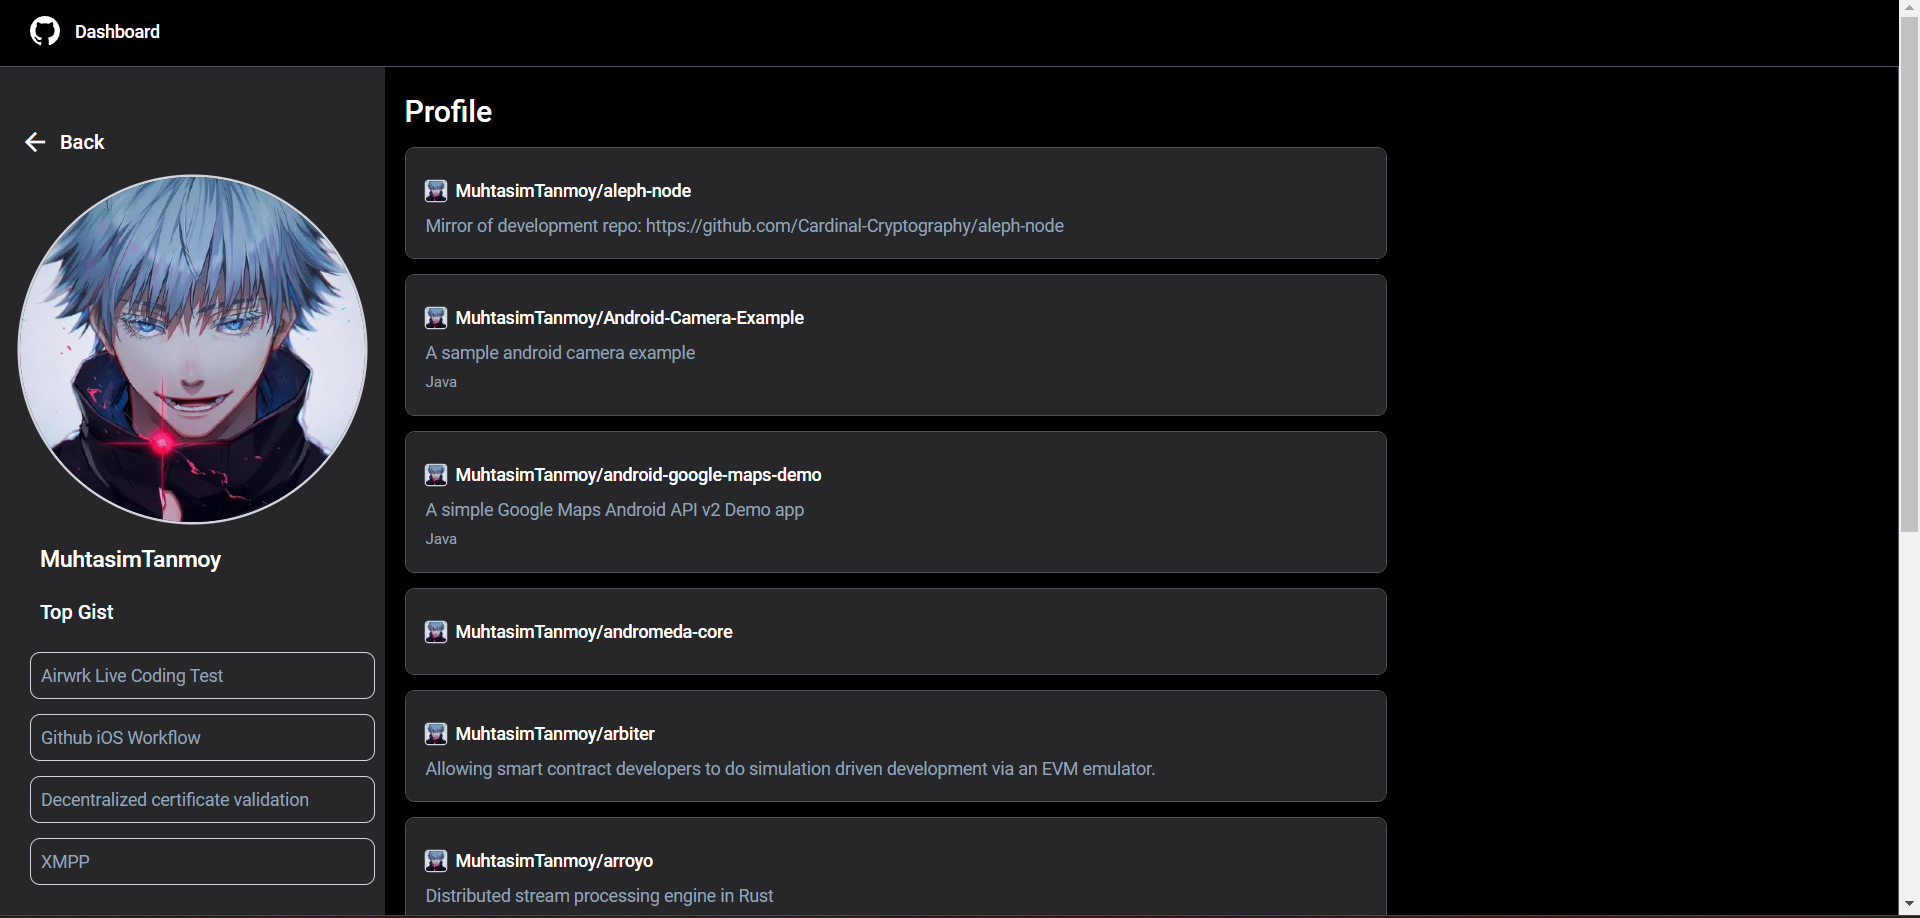
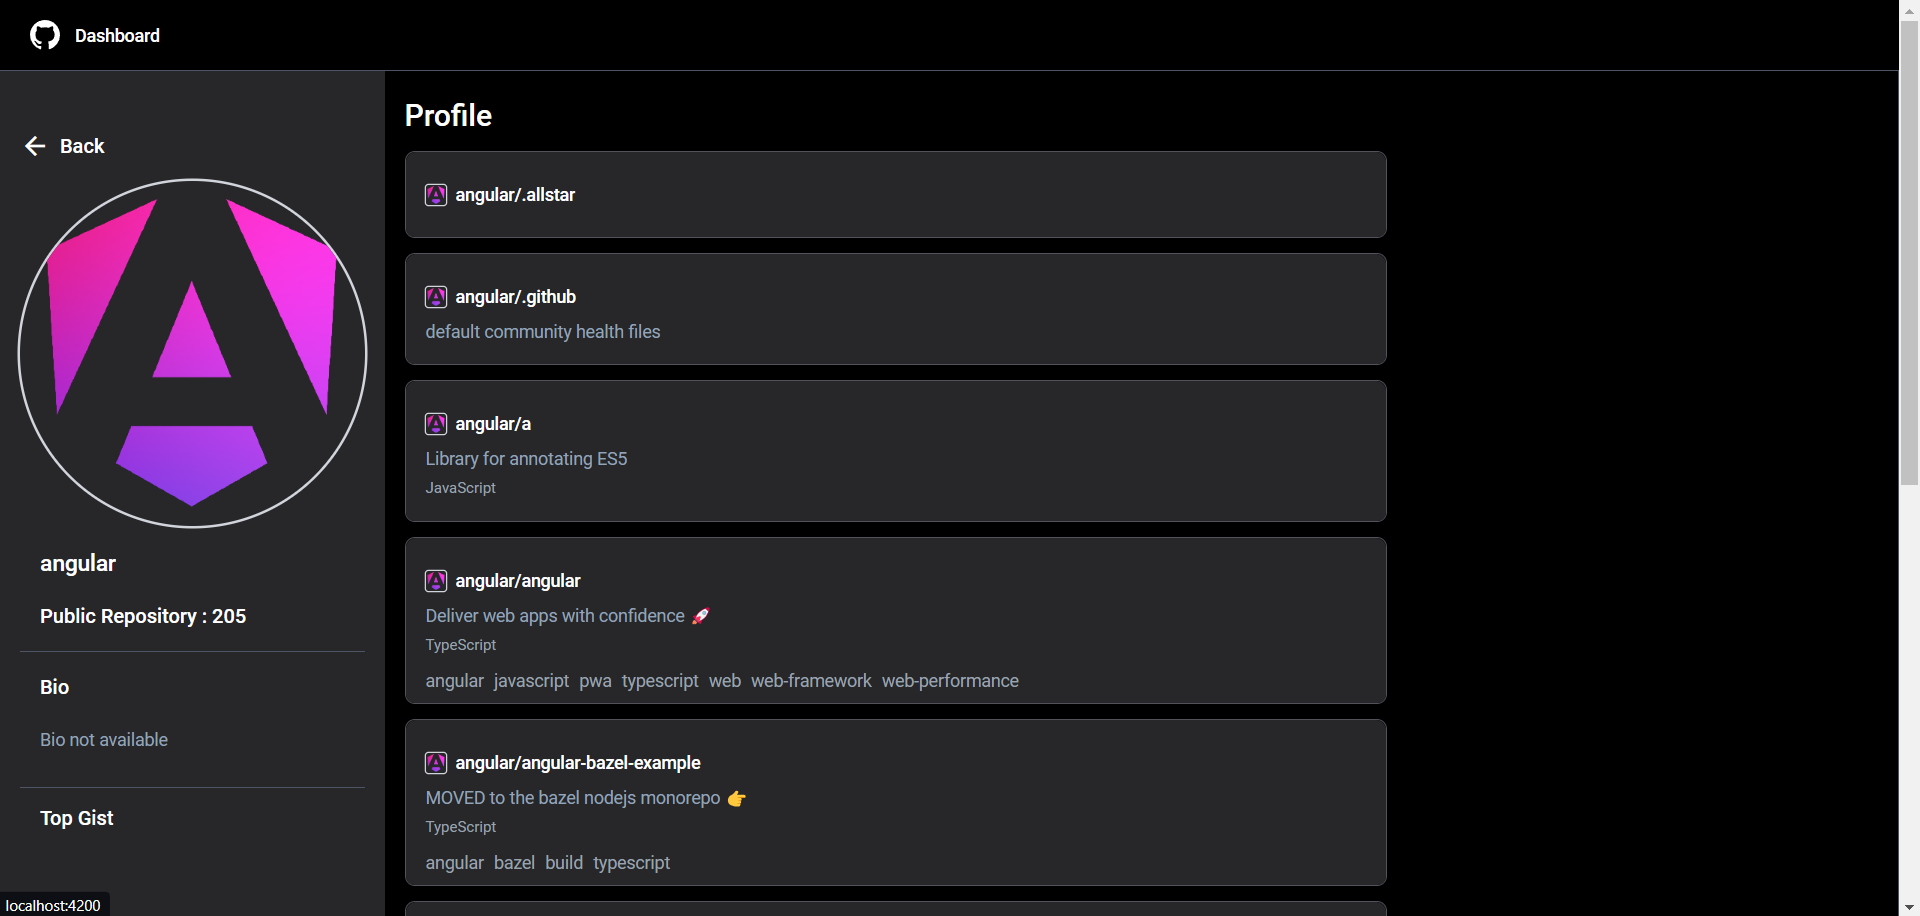
update: updated bio and public repo in profilescreen

diff --git a/src/app/pages/profile-page/profile-page.component.html b/src/app/pages/profile-page/profile-page.component.html
@@ -1,40 +1,64 @@
-<div class="flex w-full bg-black flex-col md:flex-row border-r border-gray-600 ">
- 
-  <div class="w-full md:w-1/4  bg-zinc-800 px-4 md:pt-8 pt-4 md:min-h-screen ">
-
+<div class="flex w-full bg-black flex-col md:flex-row border-r border-gray-600">
+  <!-- Main container, splitted in two sections -->
+  <div class="w-full md:w-1/4 bg-zinc-800 px-4 md:pt-8 pt-4 md:min-h-screen gap-3">
+    <!-- Back button -->
     <a class="flex gap-2 py-4 cursor-pointer" routerLink="/">
       <mat-icon
-            aria-hidden="false"
-            aria-label="arrow_back"
-            fontIcon="arrow_back"
-            class="text-white"
-          ></mat-icon>
-    <span class="text-white font-medium"  >Back</span>
-    </a >
+        aria-hidden="false"
+        aria-label="arrow_back"
+        fontIcon="arrow_back"
+        class="text-white"
+      ></mat-icon>
+      <span class="text-white font-medium">Back</span>
+    </a>
 
-    <div class="flex flex-col justify-center">
-    <img class="md:h-18 md:w-18  rounded-full ring-2 ring-gray-300" src={{profileAvatar}} alt px-4="">
-    <h4 class="text-white text-lg font-medium py-4 px-4">{{username}}</h4>
-    
-    
+    <!-- User profile section -->
+    <div class="flex flex-col justify-center border-b border-gray-600 pb-2">
+      <!-- User avatar -->
+      <img
+        class="md:h-18 md:w-18 rounded-full ring-2 ring-gray-300"
+        src="{{ profileAvatar }}"
+        alt
+        px-4=""
+      />
+      <!-- User name -->
+      <h4 class="text-white text-lg font-medium py-4 px-4">{{ username }}</h4>
+      <!-- Total number of public repositories -->
+      <h5 class="text-white text-base font-medium  px-4 pb-2">
+        Public Repository : {{ totalrepo }}
+      </h5>
+    </div>
+
+    <!-- User bio section -->
+    <div class="border-b border-gray-600 py-4">
+      <h5 class="text-white text-md font-medium px-4 pb-2 gap-4">Bio</h5>
+
+      <!-- User bio content -->
+      <div class="w-full mx-2 px-1 my-3">
+        <p class="text-slate-400 text-sm font-normal px-1">{{ bio }}</p>
+      </div>
+    </div>
+
+    <!-- User top gist section -->
+    <div>
+      <h5 class="text-white text-md font-medium px-4 pb-2 gap-4 my-3">
+        Top Gist
+      </h5>
+      <!-- Display each gist description if it exists -->
+      @for (item of gist; track $index) { @if(item.description){
+      <div class="w-full mx-2 border border-gray-300 rounded-lg px-1 py-2 my-3">
+        <p class="text-slate-400 text-sm font-normal px-1">
+          {{ item.description }}
+        </p>
+      </div>
+      } }
+    </div>
   </div>
- <div> <h5 class="text-white text-md font-medium px-4 pb-2 gap-4 ">Top Gist</h5>
-  @for (item of gist; track $index) {
-    @if(item.description){
- <div class="w-full mx-2 border border-gray-300 rounded-lg px-1 py-2 my-3">
-  <p class="text-slate-400 text-sm font-normal px-1">{{item.description}}</p>
- </div>   }
-}
-    
-  </div>
-</div>
-  <div class=" w-full md:3/4  bg-black px-4 pt-5 md:min-h-screen">
-    
+  <!-- Second section, displaying user repositories -->
+  <div class="w-full md:3/4 bg-black px-4 pt-5 md:min-h-screen">
     <h1 class="text-white text-2xl font-medium">Profile</h1>
-    <!-- <app-repo-capsule></app-repo-capsule> -->
-    <app-repo-card/>
-    
+    <!-- Display each repository -->
+    <app-repo-card />
   </div>
 </div>
-  
 

diff --git a/src/app/pages/profile-page/profile-page.component.ts b/src/app/pages/profile-page/profile-page.component.ts
@@ -7,7 +7,11 @@ import { MatIconModule } from '@angular/material/icon';
 import { MatCardModule } from '@angular/material/card';
 import { MatButtonModule } from '@angular/material/button';
 import { RouterLink } from '@angular/router';
-MatButtonModule;
+
+/**
+ * Component for Profile Page.
+ * This component fetches Gists and Profile data and displays them on the UI.
+ */
 @Component({
   selector: 'app-profile-page',
   standalone: true,
@@ -17,39 +21,70 @@ MatButtonModule;
     MatIconModule,
     MatCardModule,
     MatButtonModule,
-    RouterLink
+    RouterLink,
   ],
   templateUrl: './profile-page.component.html',
-  styleUrl: './profile-page.component.css',
+  styleUrls: ['./profile-page.component.css'],
 })
 export class ProfilePageComponent {
+  // Array to store gists
   gist: any[] = [];
+  // URL of profile avatar
   profileAvatar: string = 'https://avatars.githubusercontent.com/u/308031?v=4';
+  // Profile service for making API calls
   gistService = inject(ProfileService);
+  // Username from route parameter
   username: string = '';
+  // User bio
+  bio: string = '';
+  // Total number of repositories
+  totalrepo: string = '';
 
+  /**
+   * Constructor to get the ActivatedRoute object
+   * @param route - ActivatedRoute object
+   */
   constructor(private route: ActivatedRoute) {}
+
+  /**
+   * Lifecycle hook to initialize the component
+   */
   ngOnInit(): void {
     this.gistload();
     this.username = this.route.snapshot.params['id'];
   }
 
+  /**
+   * Function to load gist data from API
+   */
   gistload() {
+    // Make API call to fetch gists
     this.gistService.searchGist(this.route.snapshot.params['id']).subscribe({
       next: (data: any) => {
         this.gist = data;
       },
       error: (err: any) => {
-        console.error('Error in Cart API call', err);
+        console.error('Error in fetching gist data', err);
       },
     });
-    this.gistService.profileData(this.route.snapshot.params['id']).subscribe({
-      next: (data: any) => {
-        this.profileAvatar = data.avatar_url;
-      },
-      error: (err: any) => {
-        console.error('Error in Cart API call', err);
-      },
-    });
+
+    // Make API call to fetch profile data
+    this.gistService
+      .profileData(this.route.snapshot.params['id'])
+      .subscribe({
+        next: (data: any) => {
+          console.log('name', this.route.snapshot.params['id']);
+          console.log(data);
+          this.profileAvatar = data.avatar_url;
+          this.bio = data.bio ? data.bio : 'Bio not available';
+          this.totalrepo = data.public_repos
+            ? data.public_repos
+            : '0';
+        },
+        error: (err: any) => {
+          console.error('Error in fetching profile data', err);
+        },
+      });
   }
 }
+

diff --git a/src/app/components/repo-card/repo-card.component.ts b/src/app/components/repo-card/repo-card.component.ts
@@ -4,7 +4,6 @@ import { MatButtonModule } from '@angular/material/button';
 import { MatCardModule } from '@angular/material/card';
 import { NgFor,NgClass } from '@angular/common';
 import { ProfileService } from '../../services/profile.service';
-import { Observable } from 'rxjs';
 import { HttpClientModule,HttpClient } from '@angular/common/http';
 import {MatPaginatorModule} from '@angular/material/paginator';
 import { PageEvent } from '@angular/material/paginator';

diff --git a/src/app/components/repo-capsule/repo-capsule.component.ts b/src/app/components/repo-capsule/repo-capsule.component.ts
@@ -27,6 +27,8 @@ export class RepoCapsuleComponent {
   searchValueChange(value:string):void{
     if(value.trim()!==''){ //if search query is not empty call the api
       this.repo_load(value);
+    }else{
+      this.repo_load();//call default function when clearing the searchbar
     }
   }
 

diff --git a/README.md b/README.md
@@ -47,3 +47,5 @@ Run `ng e2e` to execute the end-to-end tests via a platform of your choice. To u
 ## Further help
 
 To get more help on the Angular CLI use `ng help` or go check out the [Angular CLI Overview and Command Reference](https://angular.io/cli) page.
+
+![Screenshot](https://github.com/GERYMEN/github-user-Search/blob/main/screeshot/page1.png?raw=true)
